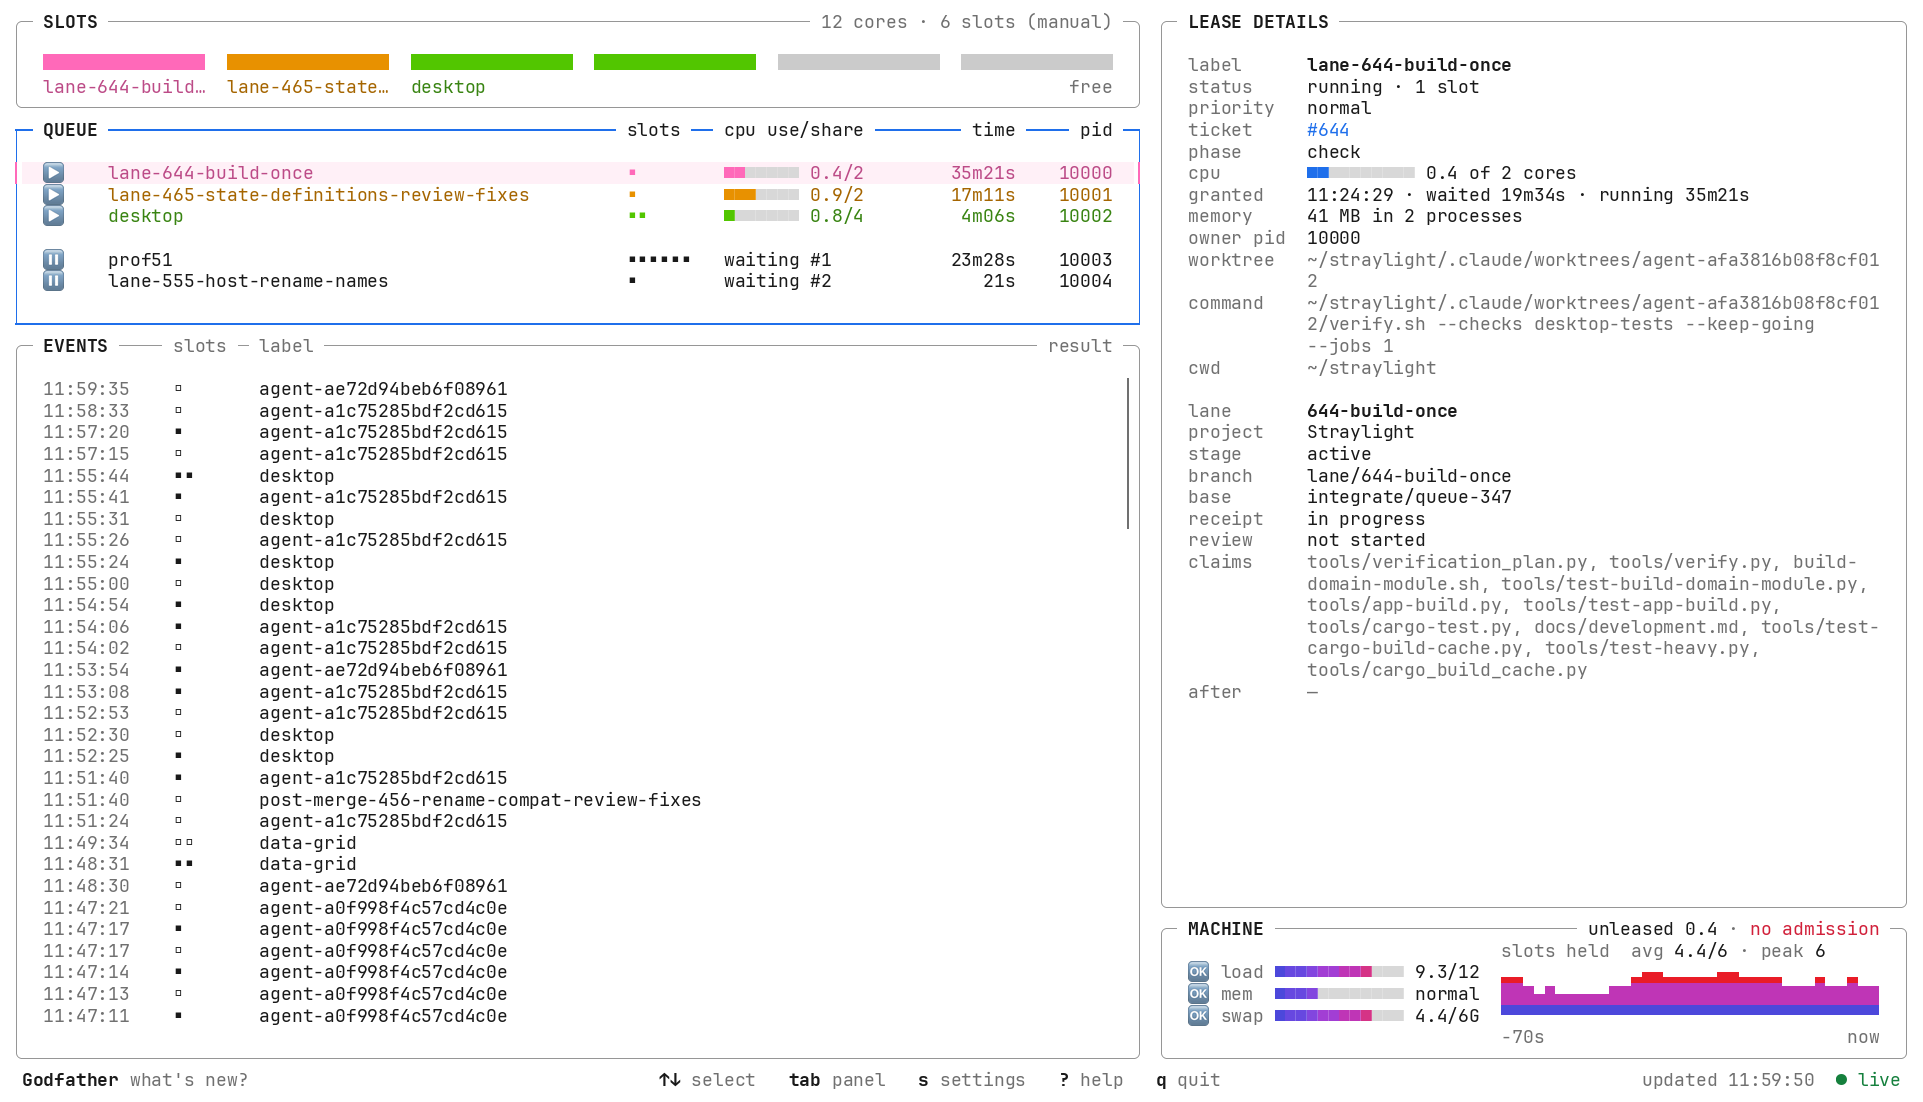
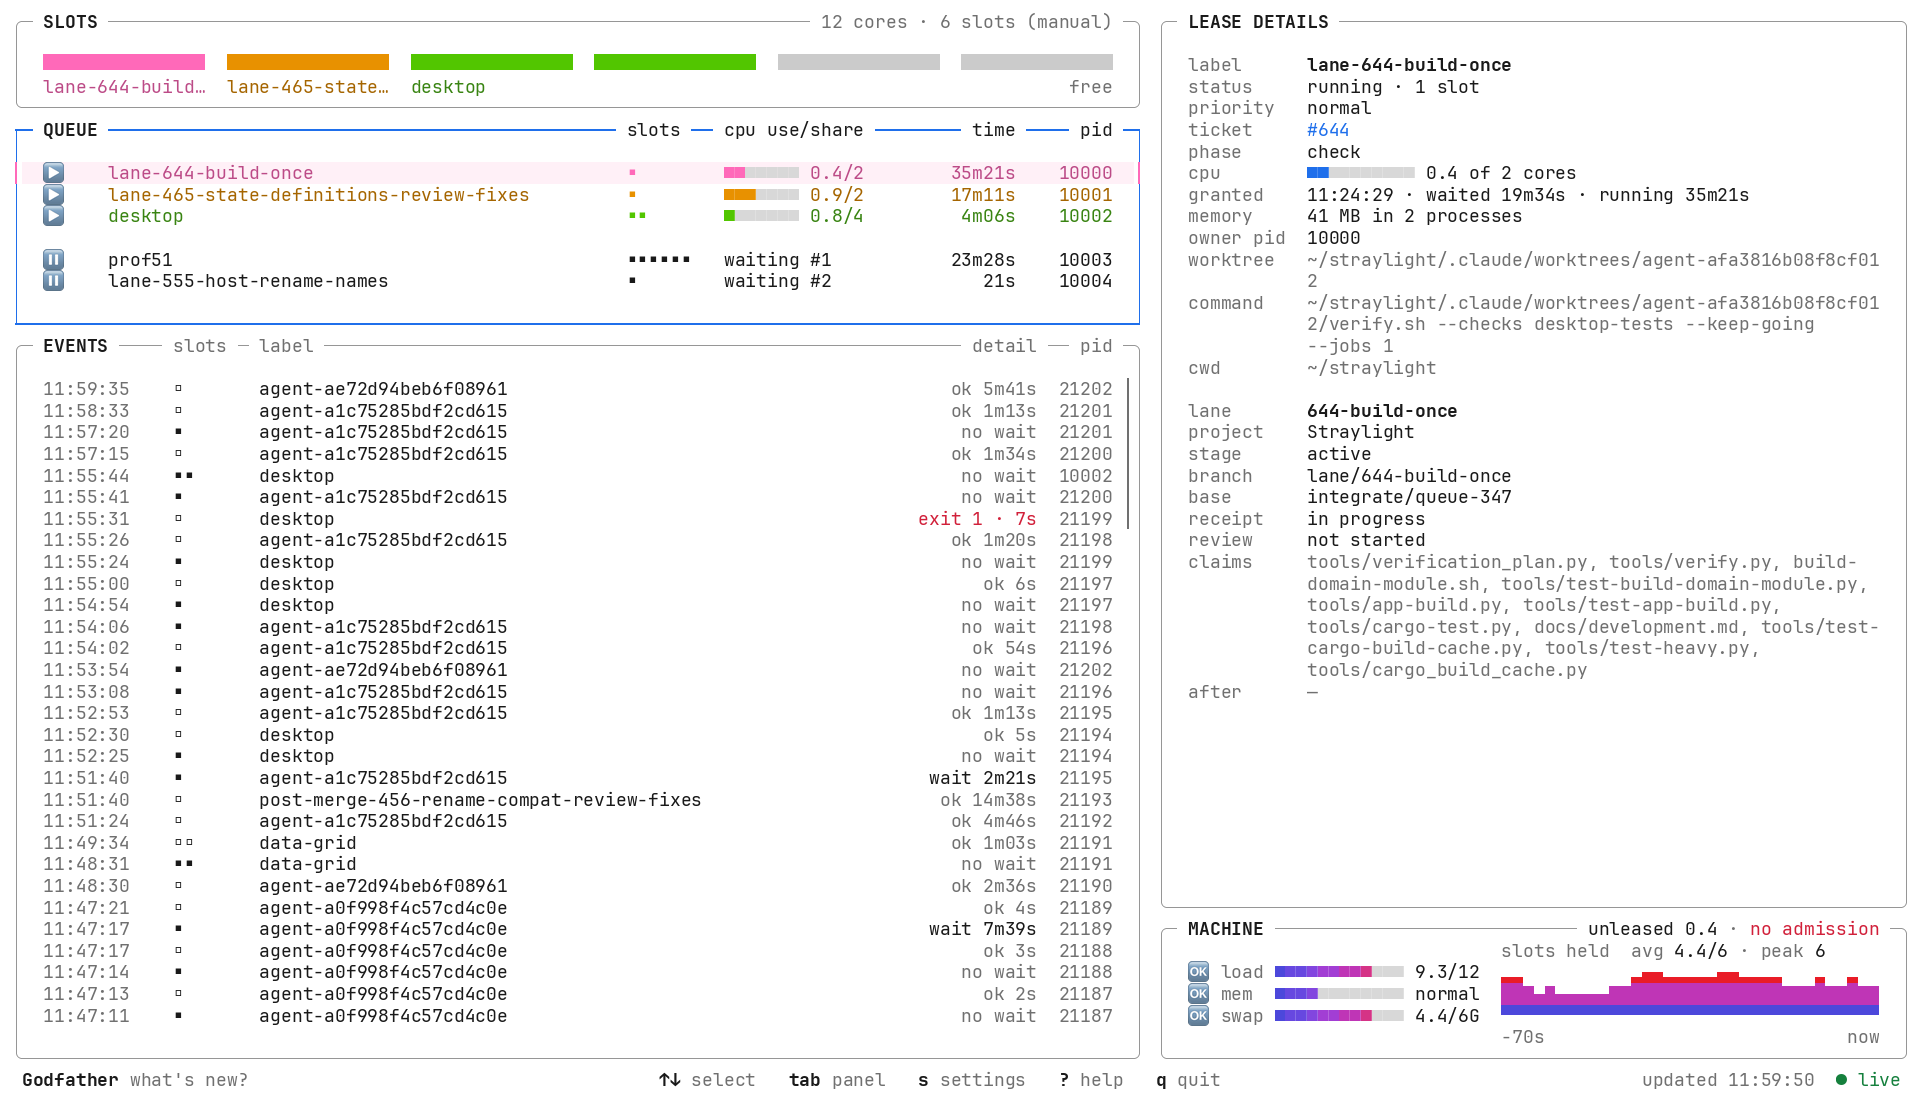
godfather: README media with EVENTS' filled results; strict types for the event feed (fathers#84)
The README still and animation are drawn again in both themes (tools/raster.py):
EVENTS now shows each row's result and pid from Slotfather's event log. The new
event code and its tests pass strict Pyright without growing the baseline.

Changed region(s): [[0.468, 0.3085, 0.5928, 0.9256]]

diff --git a/godfather/src/godfather/events.py b/godfather/src/godfather/events.py
@@ -416,9 +416,9 @@ def slotfather_shown(kind: str, details: dict[str, Any]) -> Optional[Shown]:
     `gave up 5m`, `owner died · 12m` (red for a lease, yellow for a waiter), `batch → interactive`, `waiting 45m`."""
     count = _count(details)
     if kind == "lease.granted":
-        waited = details.get("waited")
+        waited: Any = details.get("waited")
         if _number(waited):
-            return Shown("granted", ((f"wait {_span(waited)}", "text") if waited >= 1 else ("no wait", "dim"),),
+            return Shown("granted", ((f"wait {_span(waited)}", "text") if float(waited) >= 1 else ("no wait", "dim"),),
                          count, True)
         return Shown("granted", (("resumed" if details.get("resumed") else "", "dim"),), count, True)
     if kind == "lease.released":
@@ -491,10 +491,10 @@ def lanefather_shown(kind: str, details: dict[str, Any]) -> Optional[Shown]:
     if kind == "lane.released":
         return Shown("released", (("claims freed", "dim"),))
     if kind == "lane.done":
-        freed = details.get("freed_bytes")
+        freed: Any = details.get("freed_bytes")
         from .tui import megabytes
 
-        return Shown("done", ((f"freed {megabytes(freed / 2**20)}" if _number(freed) else "", "dim"),))
+        return Shown("done", ((f"freed {megabytes(float(freed) / 2**20)}" if _number(freed) else "", "dim"),))
     if kind == "review.started":
         return Shown("review", (("started", "dim"),))
     if kind == "review.finished":
@@ -652,5 +652,6 @@ def _parse_any_time(value: Any) -> Optional[datetime.datetime]:
 
 def text_of(item: dict[str, Any]) -> str:
     """What the text filter matches in a row: its kind, subject id, label and detail."""
+    detail = cast(list[Part], item.get("detail") or [])
     return " ".join([str(item.get("kind") or ""), str(item.get("id") or ""), str(item.get("label") or ""),
-                     *(text for text, _ in item.get("detail") or [])]).lower()
+                     *(text for text, _ in detail)]).lower()

diff --git a/godfather/tests/test_feed.py b/godfather/tests/test_feed.py
@@ -60,7 +60,7 @@ class ReplayTests(unittest.TestCase):
         with tool.environment(None, folder / "scene"):
             from godfather import app
 
-            model, error = app.Screen().load()
+            model, _ = app.Screen().load()
         assert model is not None
         self.assertEqual(([], [], "slotfather too old for events"),
                          (model["events"], model["sources"], model["events_note"]),
@@ -190,9 +190,10 @@ class MixedViewTests(unittest.TestCase):
 
         wide = widths(114)
         self.assertEqual(["time", "source", "event", "slots", "label", "detail", "pid"], list(wide))
-        steps = [next(inner for inner in range(114, 20, -1) if lost(widths(inner)))
-                 for lost in (lambda found: "pid" not in found, lambda found: "slots" not in found,
-                              lambda found: found["source"] == 1)]
+        def lost(step: int, found: dict[str, int]) -> bool:
+            return ("pid" not in found, "slots" not in found, found["source"] == 1)[step]
+
+        steps = [next(inner for inner in range(114, 20, -1) if lost(step, widths(inner))) for step in range(3)]
         self.assertEqual(sorted(steps, reverse=True), steps, "pid goes, then slots, then the source shrinks")
         for inner in (steps[0] + 1, steps[1] + 1, steps[2] + 1):
             self.assertEqual(0, wide["label"], "the label is the flexible one")
@@ -267,7 +268,7 @@ class FilterReducerTests(unittest.TestCase):
 
     def test_f_cycles_every_source_in_order_then_all(self) -> None:
         state = self.state()
-        seen = []
+        seen: list[Any] = []
         for _ in range(4):
             state = self.keys(state, "f")
             seen.append(state.events_filter.source)

diff --git a/godfather/tests/test_events_contract.py b/godfather/tests/test_events_contract.py
@@ -15,7 +15,7 @@ import tempfile
 import time
 import unittest
 from pathlib import Path
-from typing import Any, Optional
+from typing import Any, Optional, cast
 
 from helpers import ROOT
 
@@ -64,8 +64,9 @@ class EventsContractTests(unittest.TestCase):
             found: Any = json.loads(result.stdout) if result.returncode == 0 else None
         except (OSError, ValueError, subprocess.TimeoutExpired):
             return None
-        events = ((found or {}).get("dashboard") or {}).get("events") or {}
-        return events.get("path") if 1 in (events.get("versions") or []) else None
+        from godfather import events
+
+        return events.log_path(cast(dict[str, Any], found) if isinstance(found, dict) else None)
 
     def run_tool(self, *argv: str) -> None:
         result = subprocess.run(list(argv), capture_output=True, text=True, timeout=60, env=self.environ,

diff --git a/godfather/tools/goldens.py b/godfather/tools/goldens.py
@@ -161,7 +161,10 @@ def write_expected() -> None:
                 {"verdict": "slower", "p50_recent": 341.0, "p50_before": 258.0, "ratio": 1.32, "recent": 10,
                  "before": 30, "plan_change": None, "why": "same plan"}, "warn")]
     live = {item["pid"]: (item["since"], item["granted"]) for item in block["holders"]}
-    queue = replay().lines(block["events"], live, lease=lambda pid: f"lease-{pid}")
+    def lease(pid: int) -> str:
+        return f"lease-{pid}"
+
+    queue = replay().lines(block["events"], live, lease=lease)
     log = sorted(queue + log, key=lambda text: json.loads(text)["time"])  # stable: a run event after its release
     EXPECTED.mkdir(parents=True, exist_ok=True)
     (EXPECTED / "slotfather").mkdir(exist_ok=True)

diff --git a/godfather/tools/dashboard-demo.py b/godfather/tools/dashboard-demo.py
@@ -140,10 +140,12 @@ def scene_events(model: dict[str, Any]) -> list[dict[str, Any]]:
     replay = importlib.util.module_from_spec(spec)
     spec.loader.exec_module(replay)
     live = {item["pid"]: (item["since"], item["granted"]) for item in model["holders"]}
-    found = []
+    found: list[Any] = []
     for order, line in enumerate(replay.lines(model["events"], live), 1):
         data = json.loads(line)
-        found.append(events.Event("slotfather", order, events.parse_time(data["time"]), data, line))
+        when = events.parse_time(data["time"])
+        assert when is not None
+        found.append(events.Event("slotfather", order, when, data, line))
     return events.rows(found, {"slotfather": "slot"})
 
 

diff --git a/godfather/src/godfather/app.py b/godfather/src/godfather/app.py
@@ -446,7 +446,8 @@ def events_command(argv: list[str]) -> int:
             return 0
         else:
             raise UsageError(f"events: unknown argument {argv[0]!r}\n{USAGE}")
-    feed, tags = _events.Feed(), {}
+    feed: _events.Feed = _events.Feed()
+    tags: dict[str, str] = {}
     for name in [tool for tool in _sources.TOOLS if not names or tool in names]:
         source = Source(name, _events.EventsContract(name))
         source.discover()
